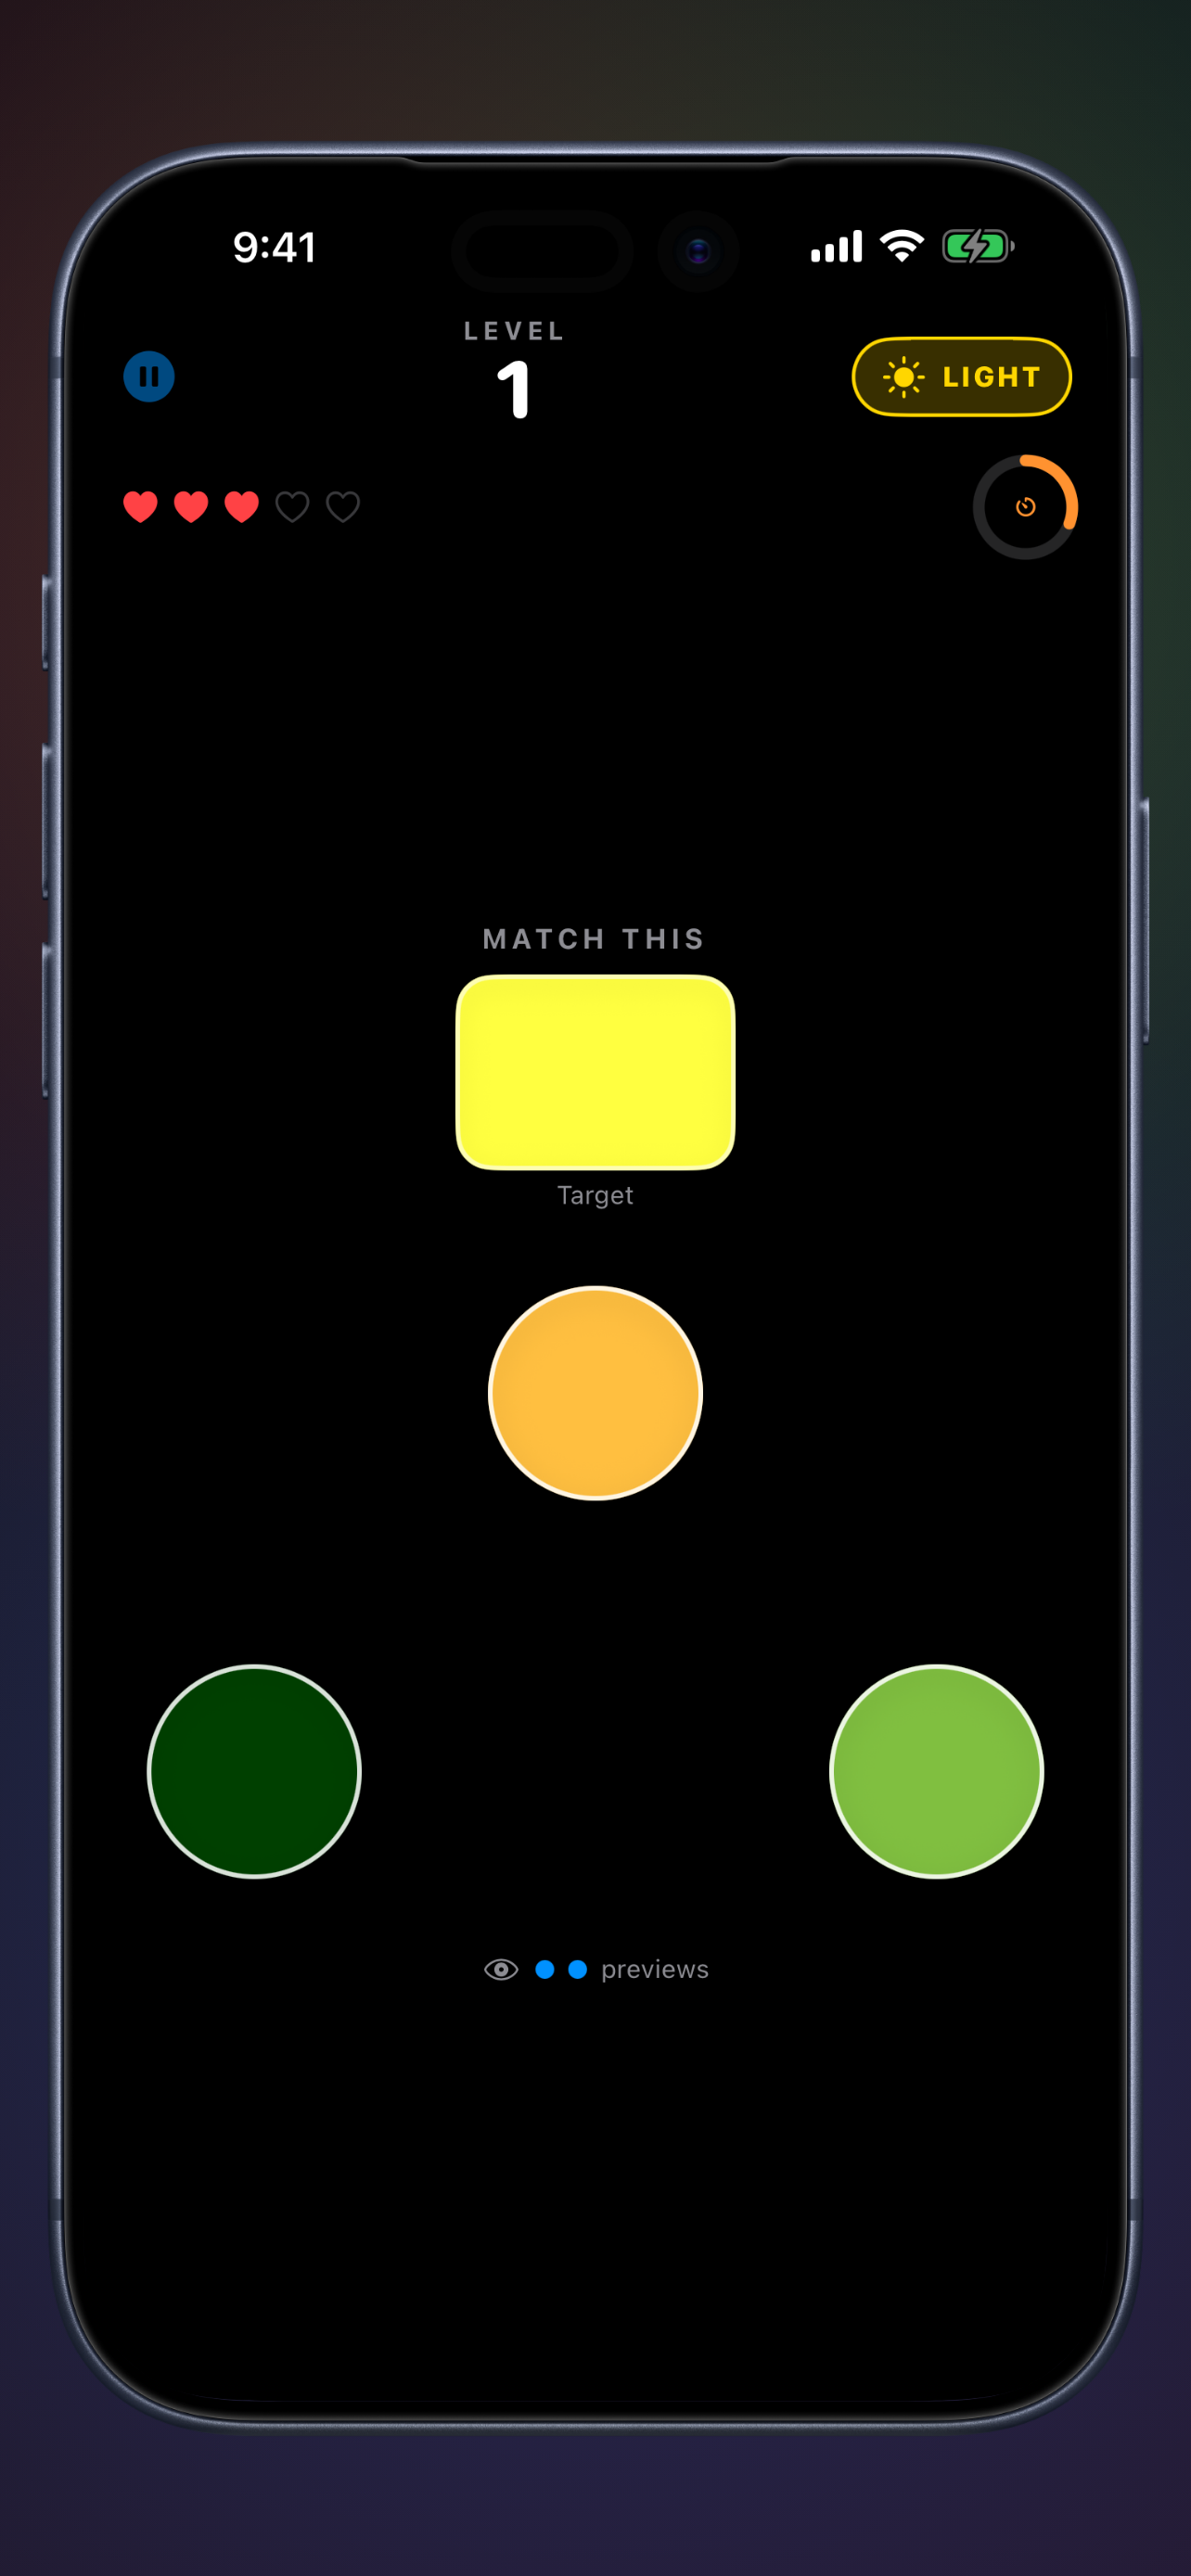
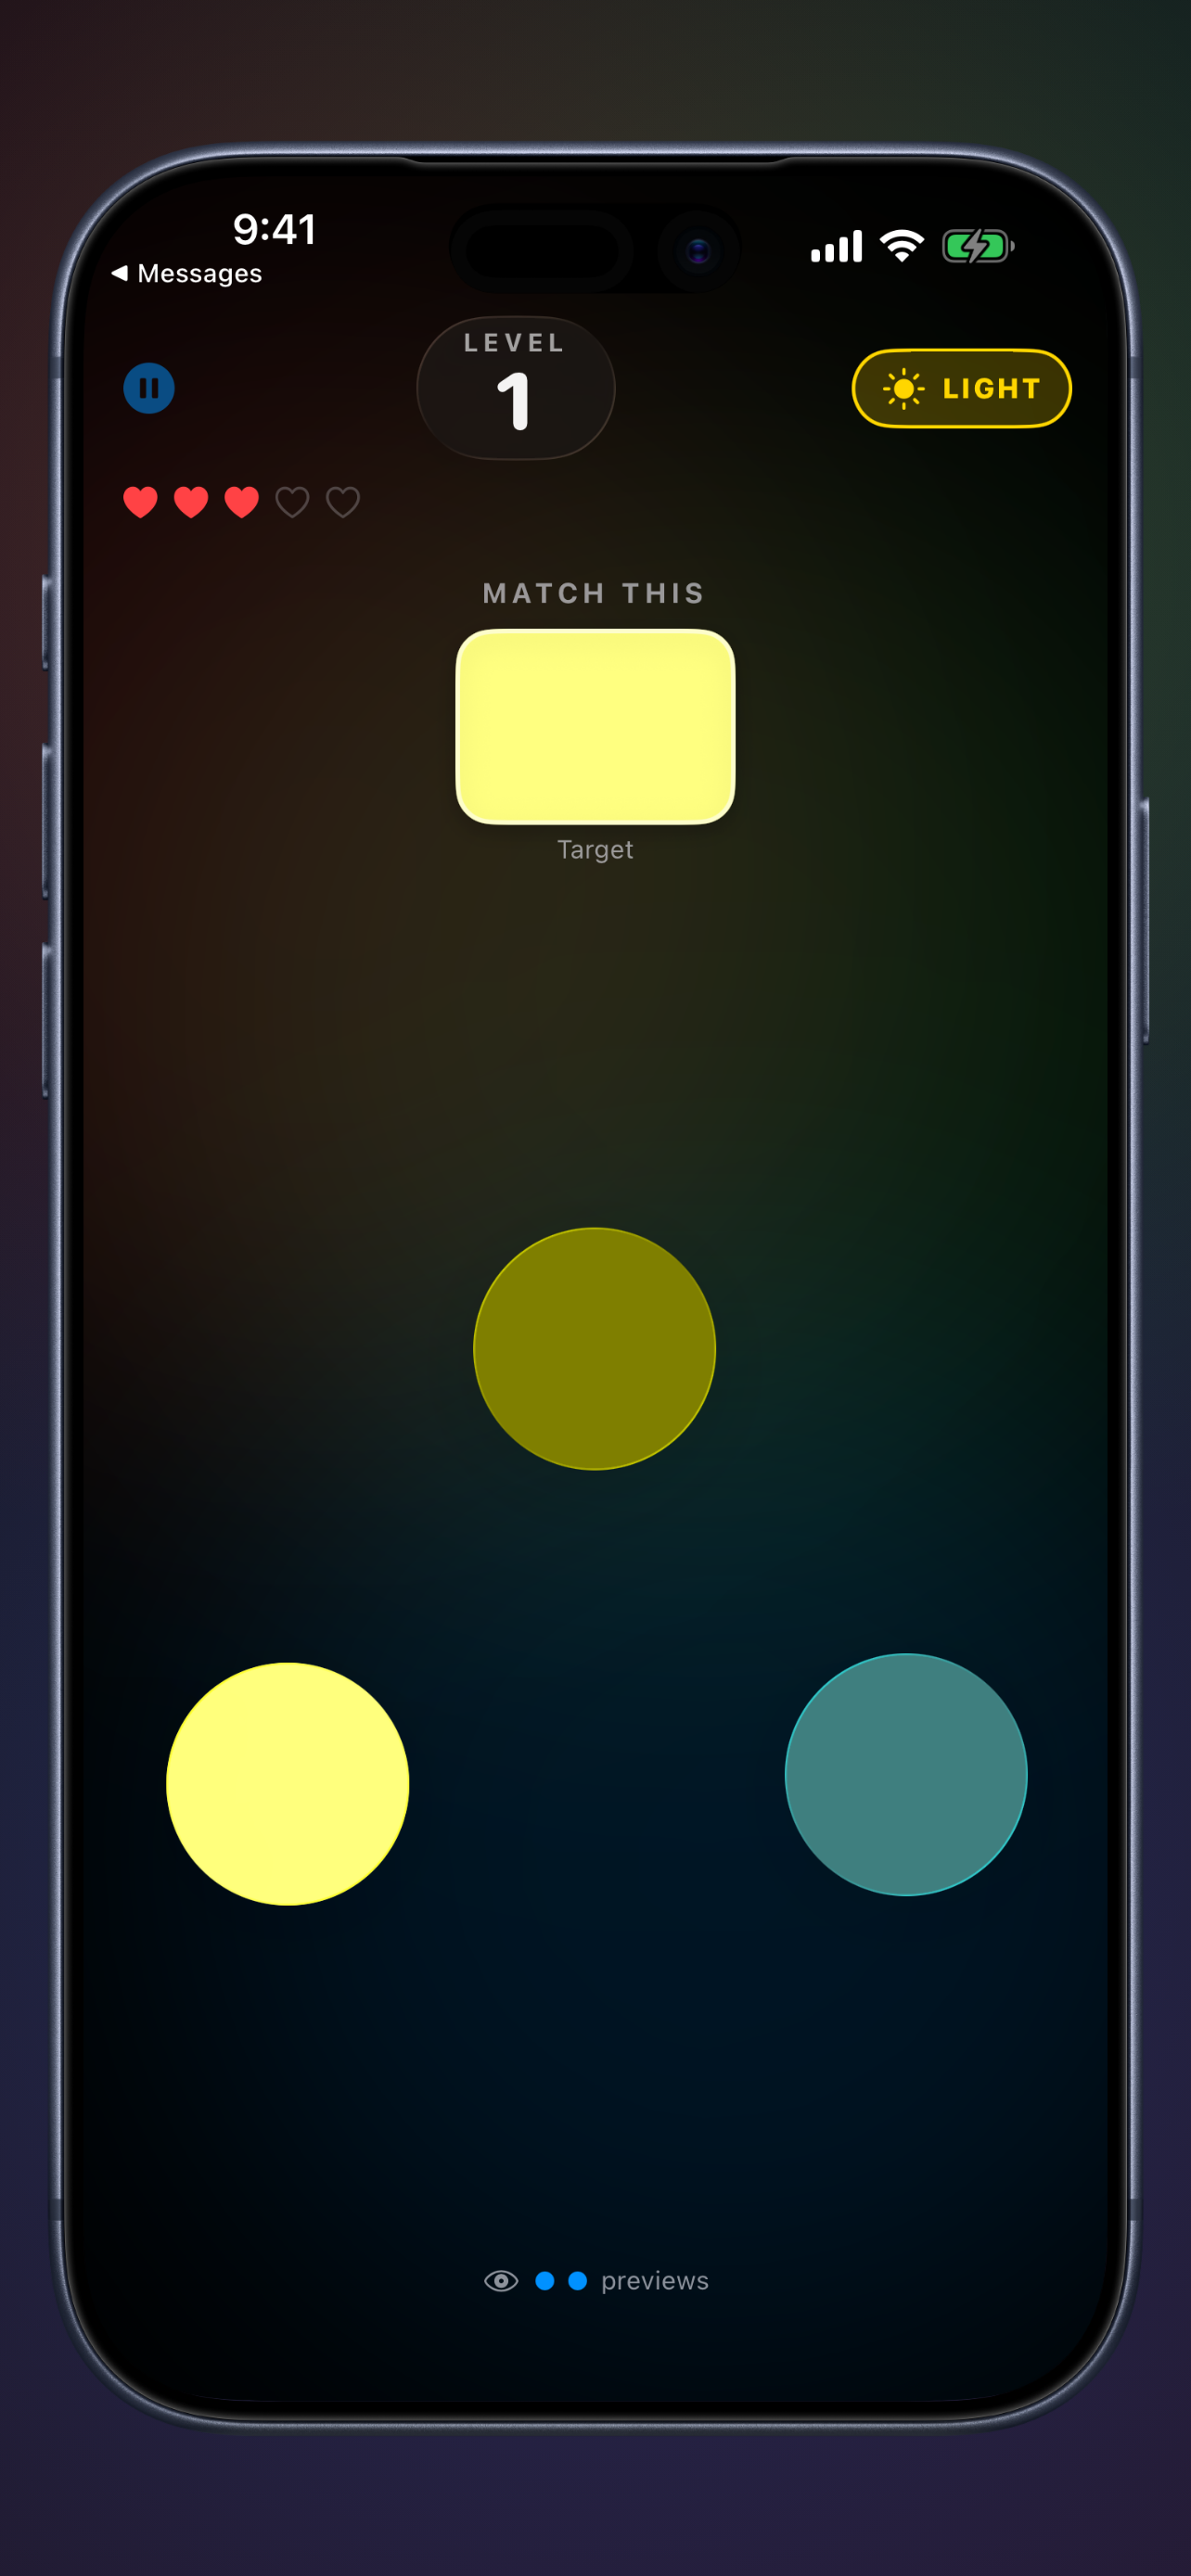
Tri-Add page: current App Store screenshot renders + accurate copy
- Replace screenshot-play/menu/tutorial.png with the current Monkr-framed App
  Store renders (liquid-glass board, glass menu, new walkthrough); cache-bust the
  <img> srcs (?v=20260605).
- Fix stale copy: the per-round timer was removed — describe the liquid-glass
  glob + shrinking previews instead of a clock.

diff --git a/apps/tri-add/index.html b/apps/tri-add/index.html
@@ -118,11 +118,11 @@
     <div class="magazine-section">
       <div class="magazine-content">
         <h2>Mix Two, Match One</h2>
-        <p>Each round shows a target color and three bubbles. Drag two bubbles together to mix them — one pair, and only one, reproduces the target. Read the colors and commit before the clock runs out.</p>
-        <p>Get it right and you level up. Get it wrong, or run out of time, and you lose a life. Fast, clean answers score the most.</p>
+        <p>Each round shows a target color and three bubbles. Drag two bubbles together and they glob into liquid glass — one pair, and only one, reproduces the target. While you have previews the glob shows the mixed color; once they run out, you read it and commit on feel.</p>
+        <p>Get it right and you level up. Get it wrong and you lose a life. Perfect, confident matches score the most.</p>
       </div>
       <div class="magazine-image">
-        <img src="assets/images/screenshot-play.png" alt="The Tri-Add board mid-mix"
+        <img src="assets/images/screenshot-play.png?v=20260605" alt="The Tri-Add board mid-mix"
              onerror="this.style.background='linear-gradient(135deg, #121218, #466EFF)'; this.style.minHeight='400px'; this.style.display='block';">
       </div>
     </div>
@@ -133,7 +133,7 @@
         <p>And keep an eye out for inversions: every so often the game flips light↔paint mid-run, changing the badge and the whole theme. Solve the first round after a flip to earn a life.</p>
       </div>
       <div class="magazine-image">
-        <img src="assets/images/screenshot-menu.png" alt="The Tri-Add menu"
+        <img src="assets/images/screenshot-menu.png?v=20260605" alt="The Tri-Add menu"
              onerror="this.style.background='linear-gradient(135deg, #B05CFF, #121218)'; this.style.minHeight='400px'; this.style.display='block';">
       </div>
     </div>
@@ -144,7 +144,7 @@
         <p>Then take it online: turn-based co-op builds a shared streak, competitive races the same seeded puzzles, and you can even play inside an iMessage bubble.</p>
       </div>
       <div class="magazine-image">
-        <img src="assets/images/screenshot-tutorial.png" alt="The Tri-Add interactive walkthrough"
+        <img src="assets/images/screenshot-tutorial.png?v=20260605" alt="The Tri-Add interactive walkthrough"
              onerror="this.style.background='linear-gradient(135deg, #4CE266, #241A33)'; this.style.minHeight='400px'; this.style.display='block';">
       </div>
     </div>